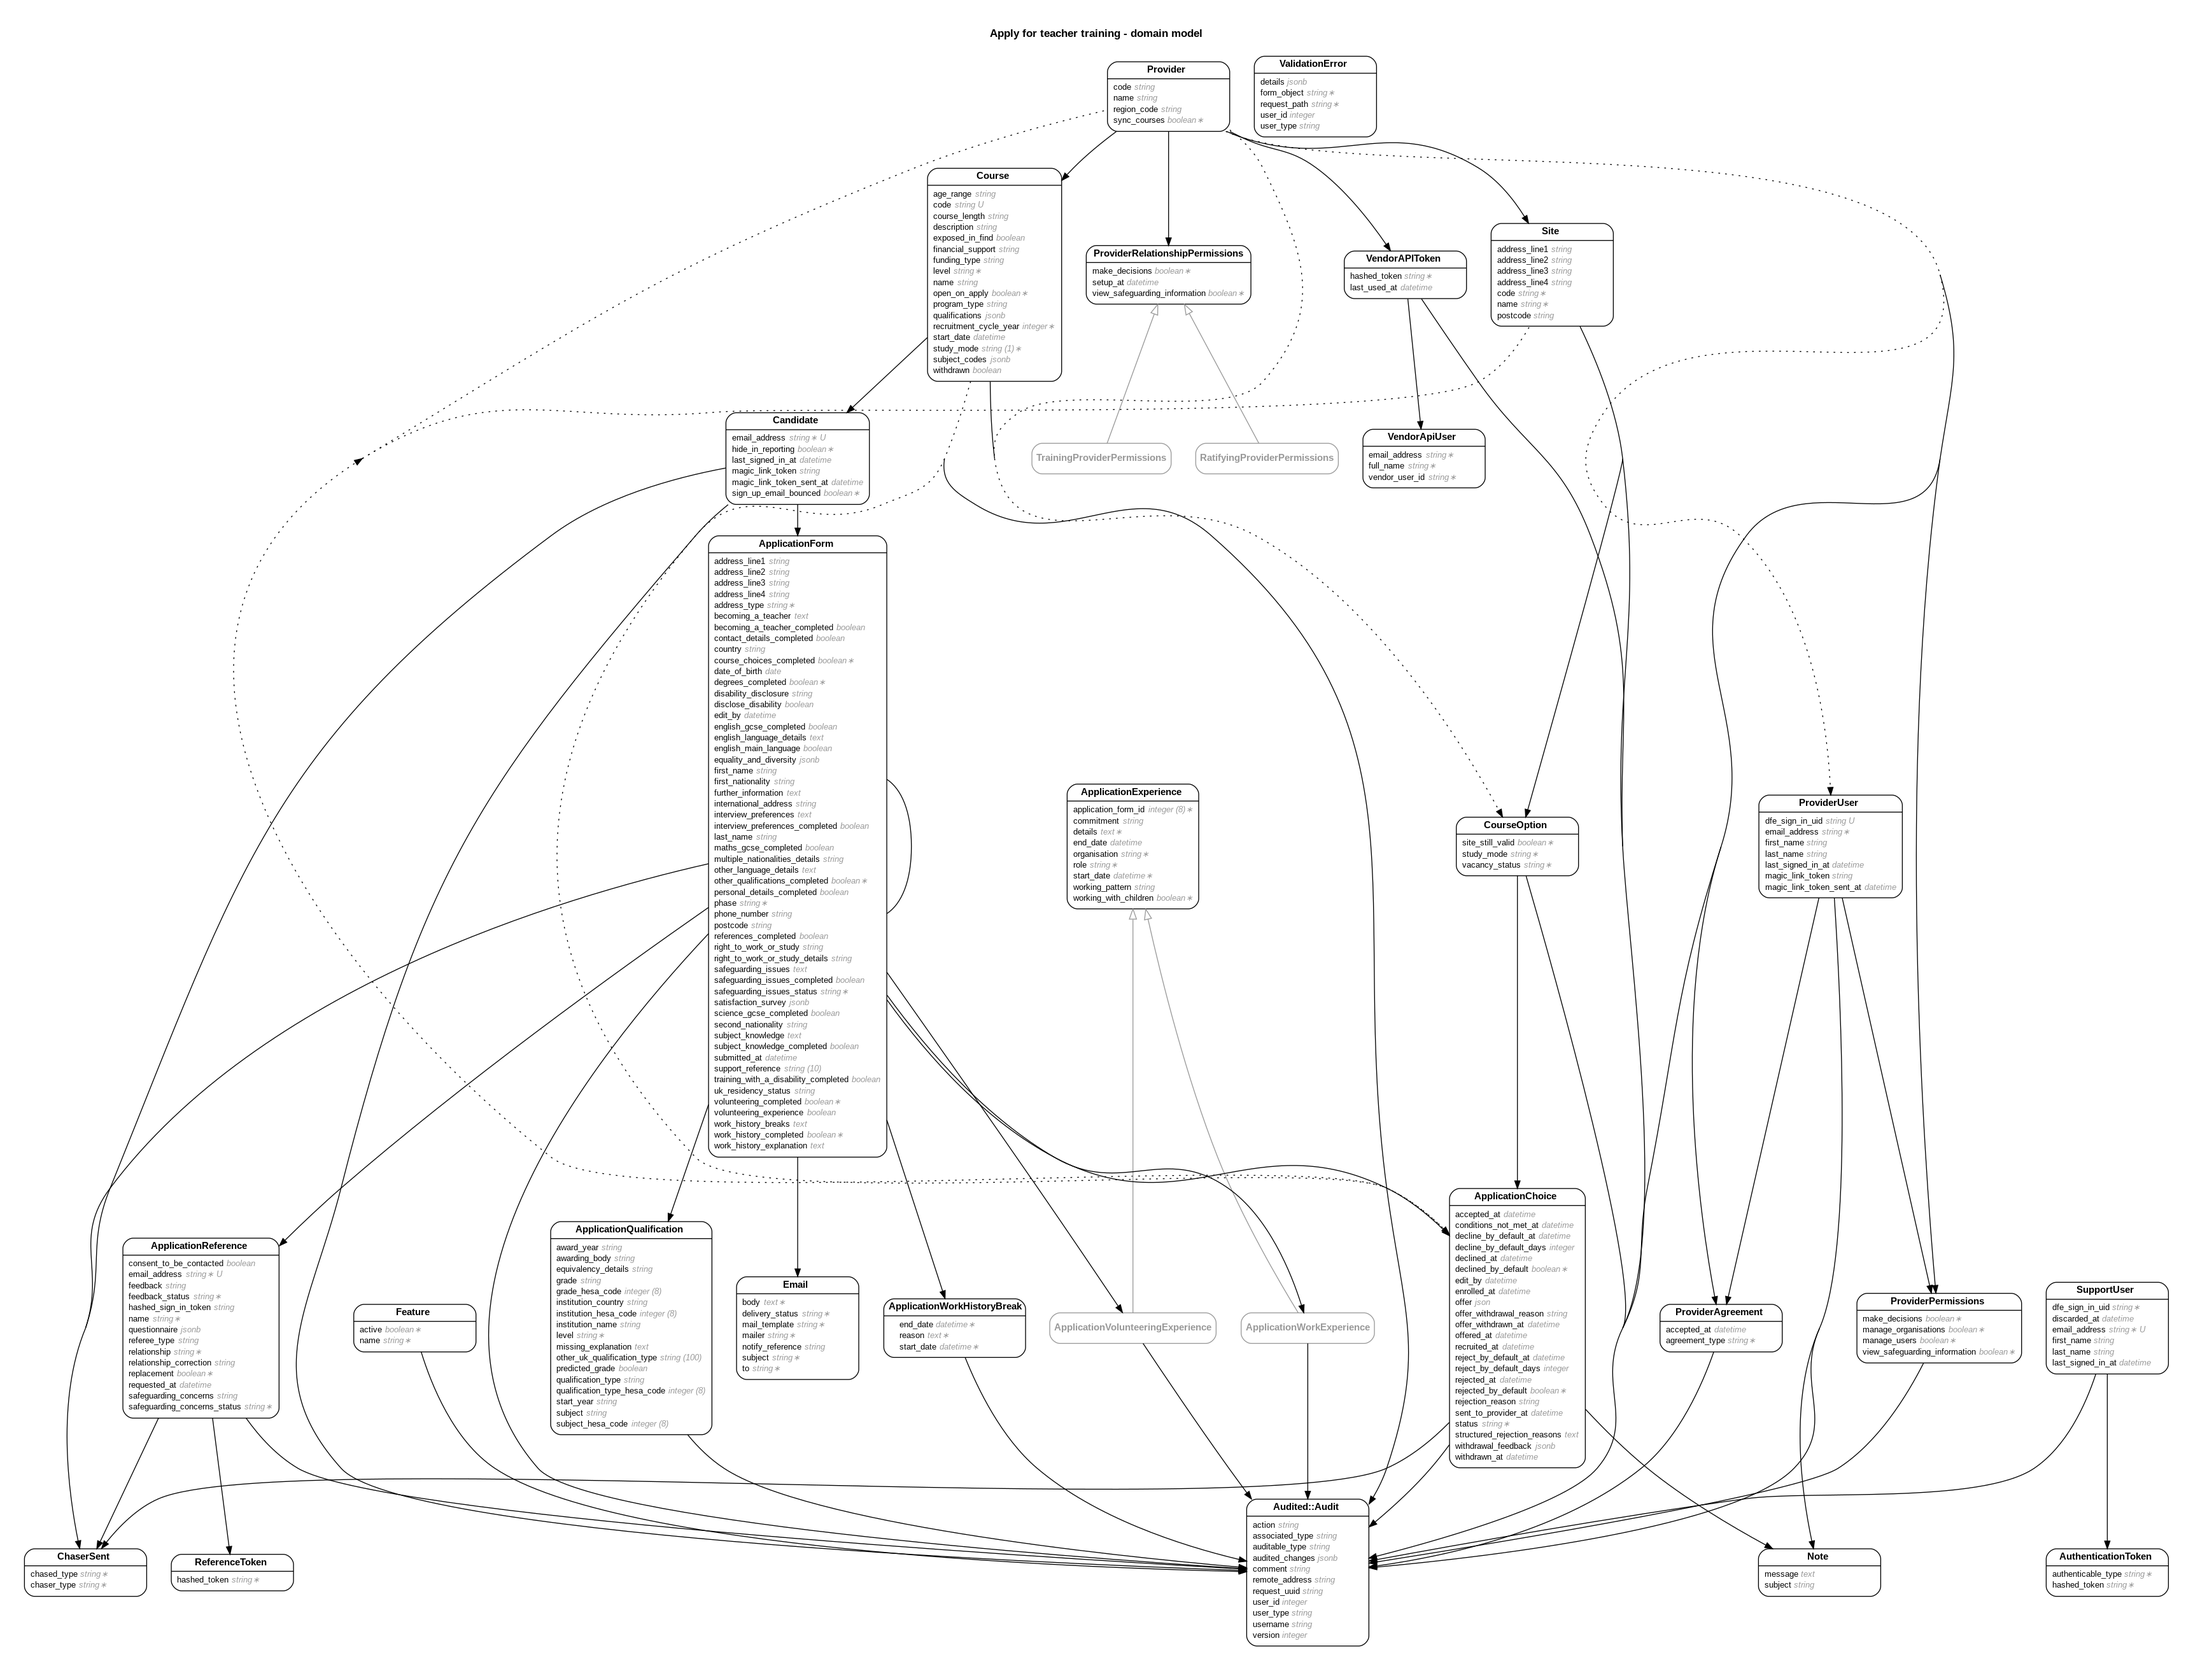
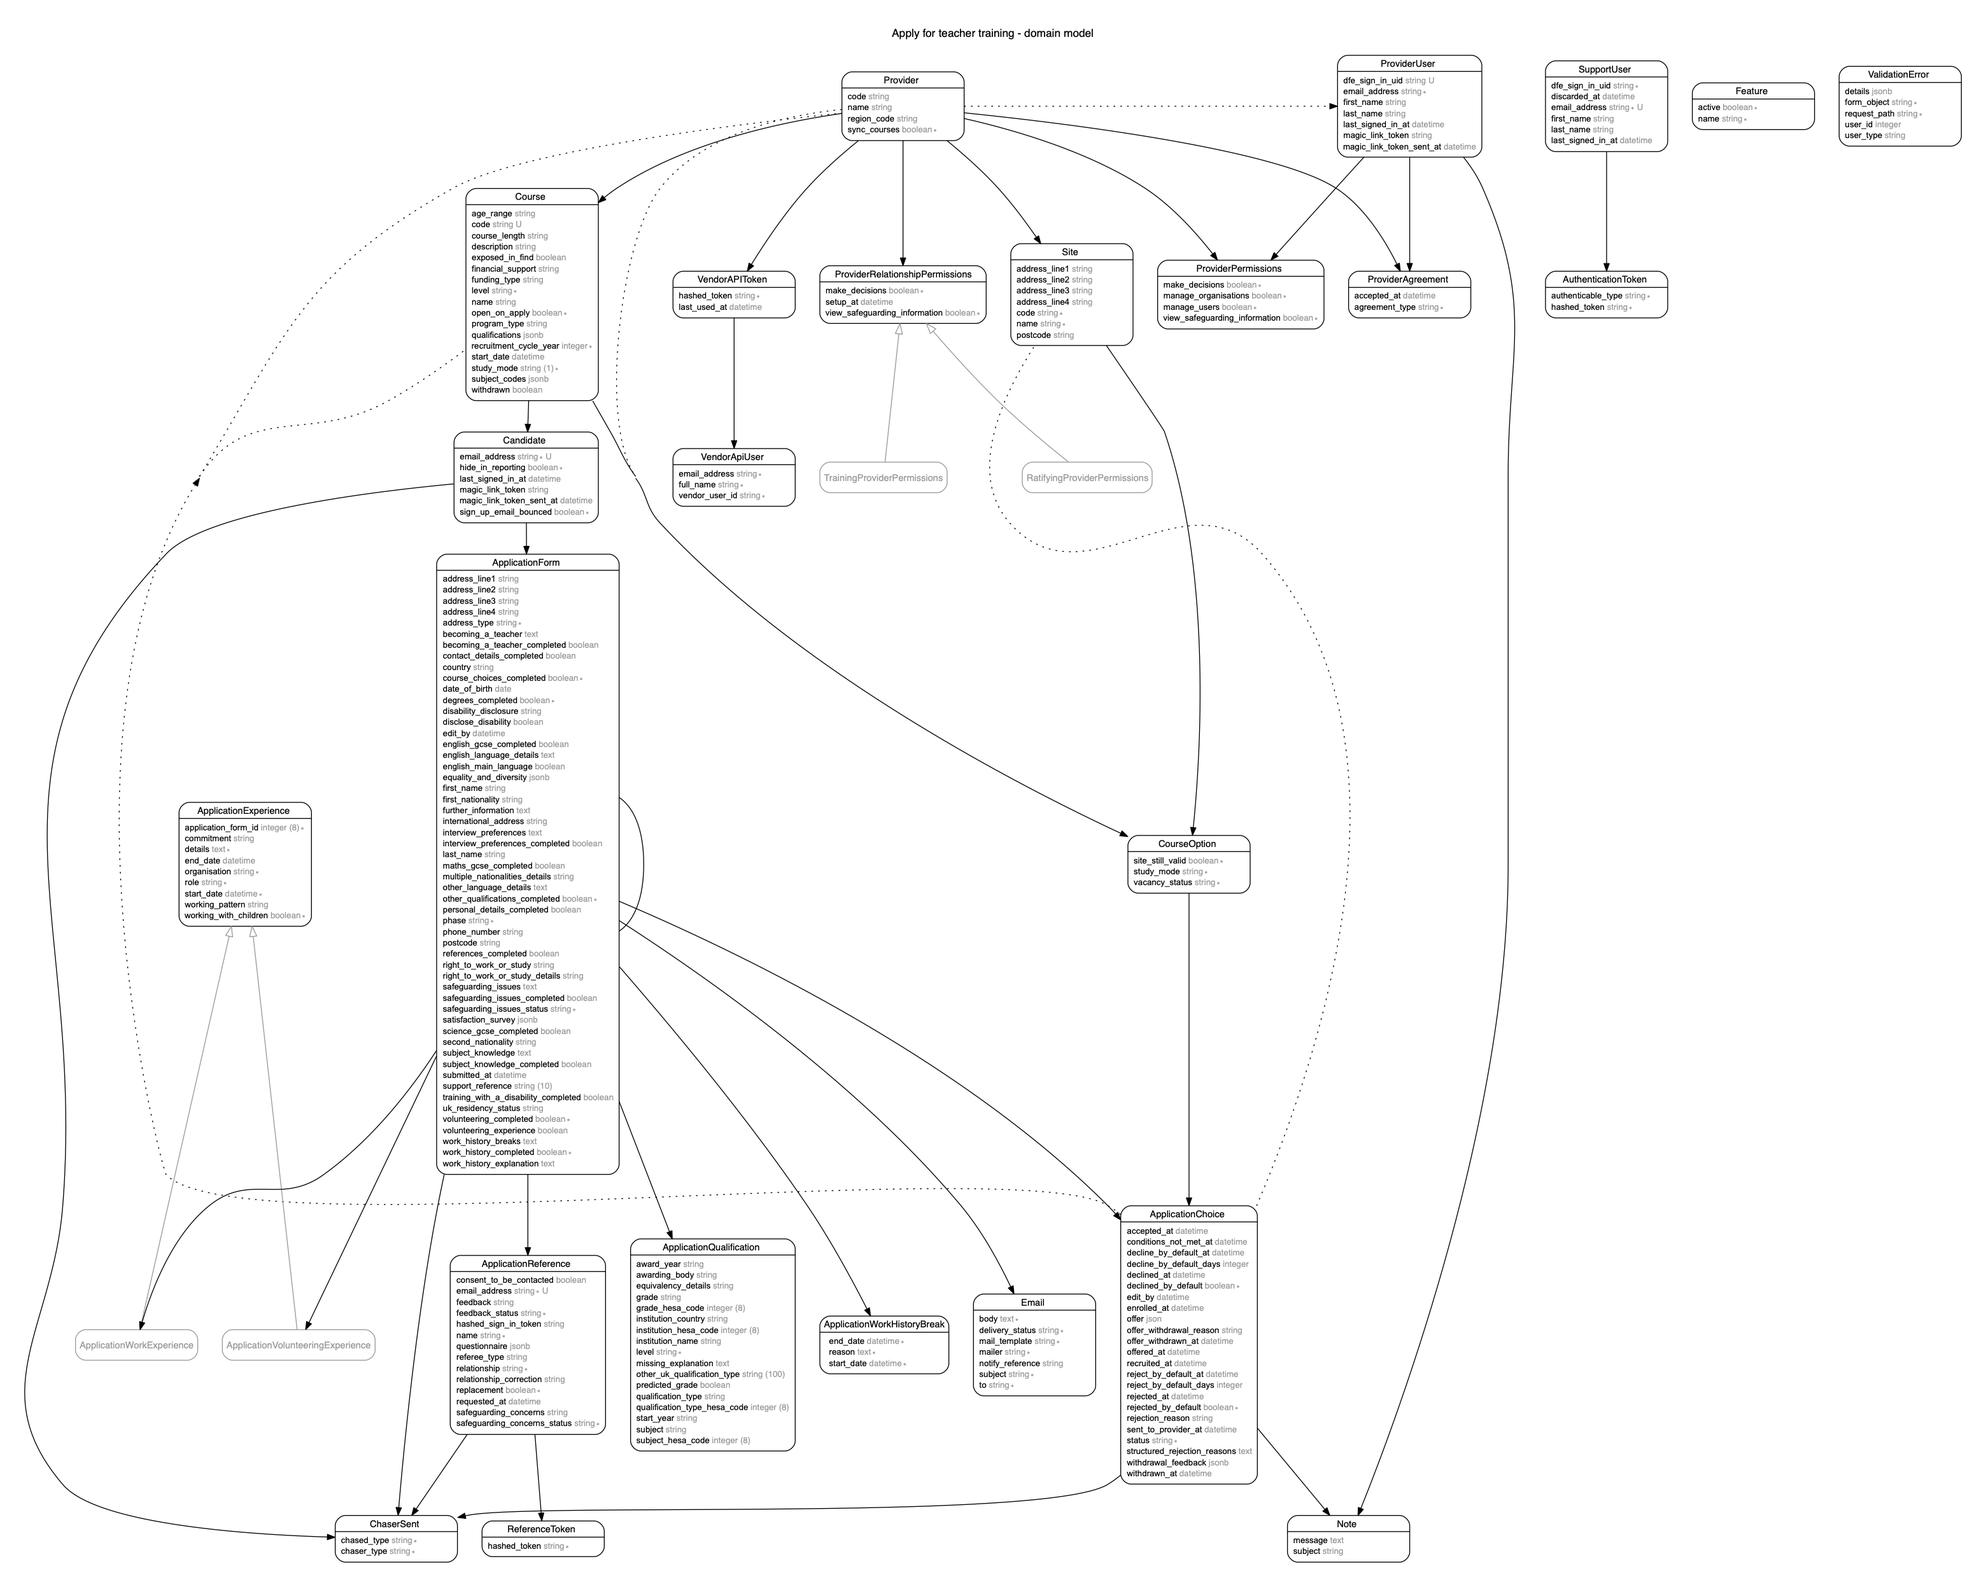
Simplify database diagram
The audit table has a lot of connections to other tables, which makes
the diagram hard to read. This removes the class from the diagram.

diff --git a/README.md b/README.md
@@ -62,6 +62,8 @@ An overview of the Azure hosted infrastructure architecture can be found in the 
 
 ![The domain model for this application](docs/domain-model.png)
 
+For simplicity the auditing table isn't displayed in the diagram, as it is connected to most tables in the database.
+
 Regenerate this diagram with `bundle exec rake erd`.
 
 ### Application states
